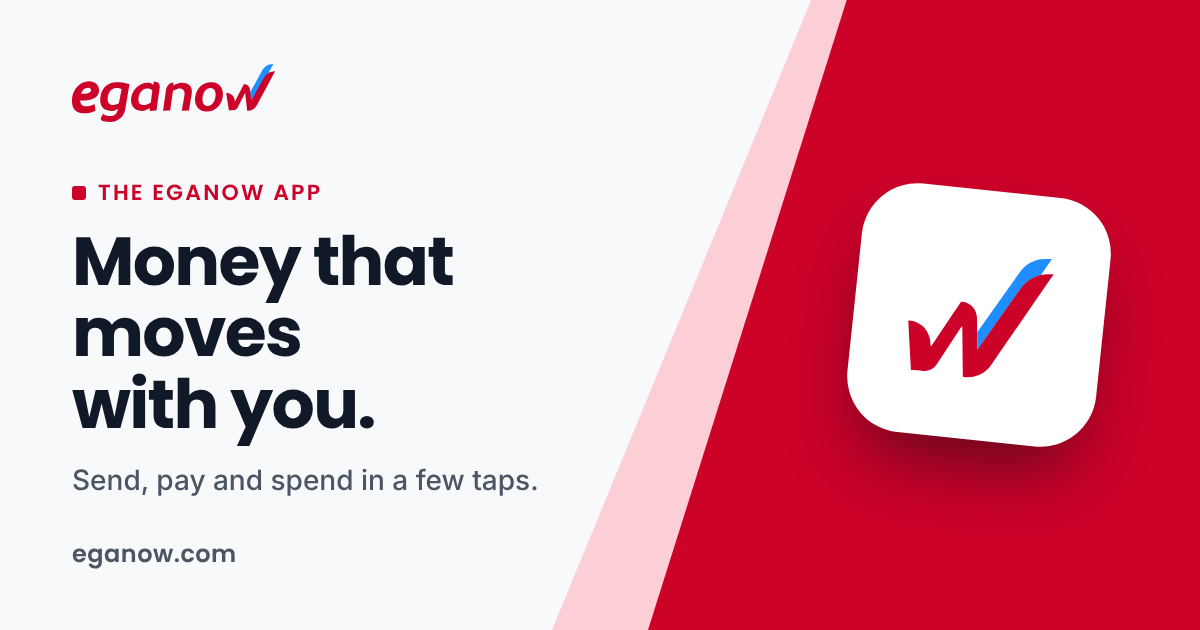
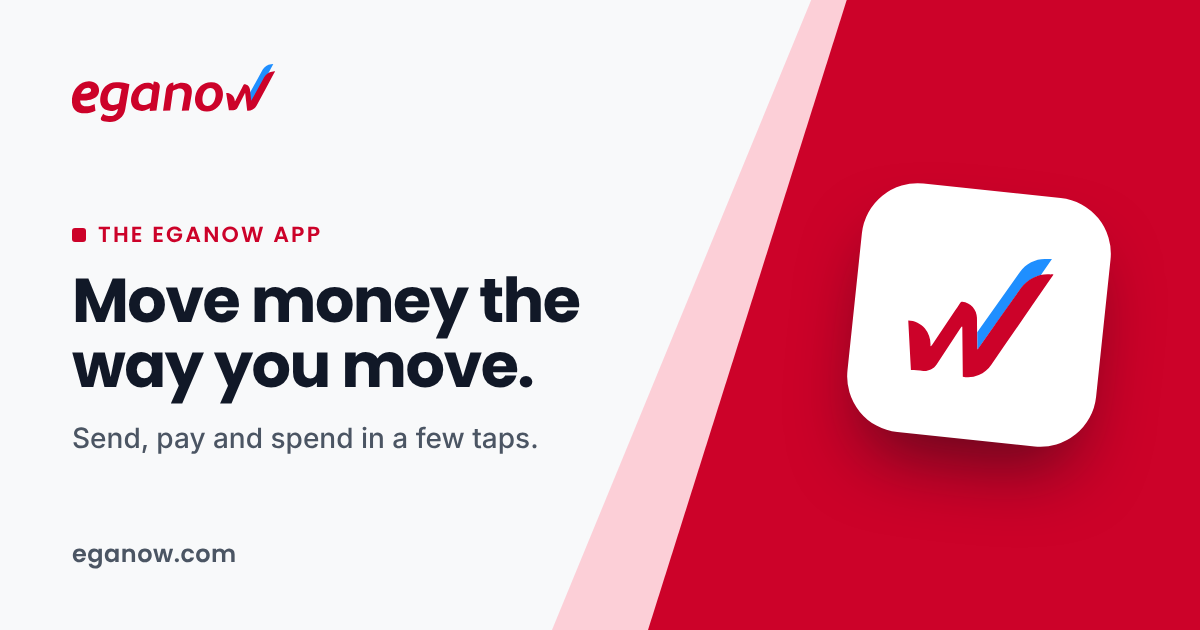
Personal hero title: "Move money the way you move."
Also updates the page title, the home social card (regenerated) and PLAN.md.

Claude-Session: https://claude.ai/code/session_01PFGn2mojxK6BXsS6q2wwEV

Changed region(s): [[0.0617, 0.3619, 0.4933, 0.7238], [0.0617, 0.2714, 0.2775, 0.3317], [0.0617, 0.754, 0.4625, 0.7841]]

diff --git a/PLAN.md b/PLAN.md
@@ -51,7 +51,7 @@ Primary goals: (1) app installs (Personal), (2) merchant sign-ups / sales leads 
 
 ### 3.1 Personal landing `/` — "A day in the life" scrollytelling
 
-**Hero.** Headline (display-xl): *"Money that moves with you."* Sub: *Send, pay, spend and save. Simple, fast, secure.* Buttons: **App Store**, **Google Play**, and a secondary pill **"For business →"** (blue). The **character** (see §5) stands between two worlds: a red-lit phone world on the left, a blue-lit storefront/dashboard world on the right. Scrolling begins the story.
+**Hero.** Headline (display-xl): *"Move money the way you move."* Sub: *Send, pay, spend and save. Simple, fast, secure.* Buttons: **App Store**, **Google Play**, and a secondary pill **"For business →"** (blue). The **character** (see §5) stands between two worlds: a red-lit phone world on the left, a blue-lit storefront/dashboard world on the right. Scrolling begins the story.
 
 **Story chapters** (pinned phone, screens swap on scroll; the character walks through each):
 
